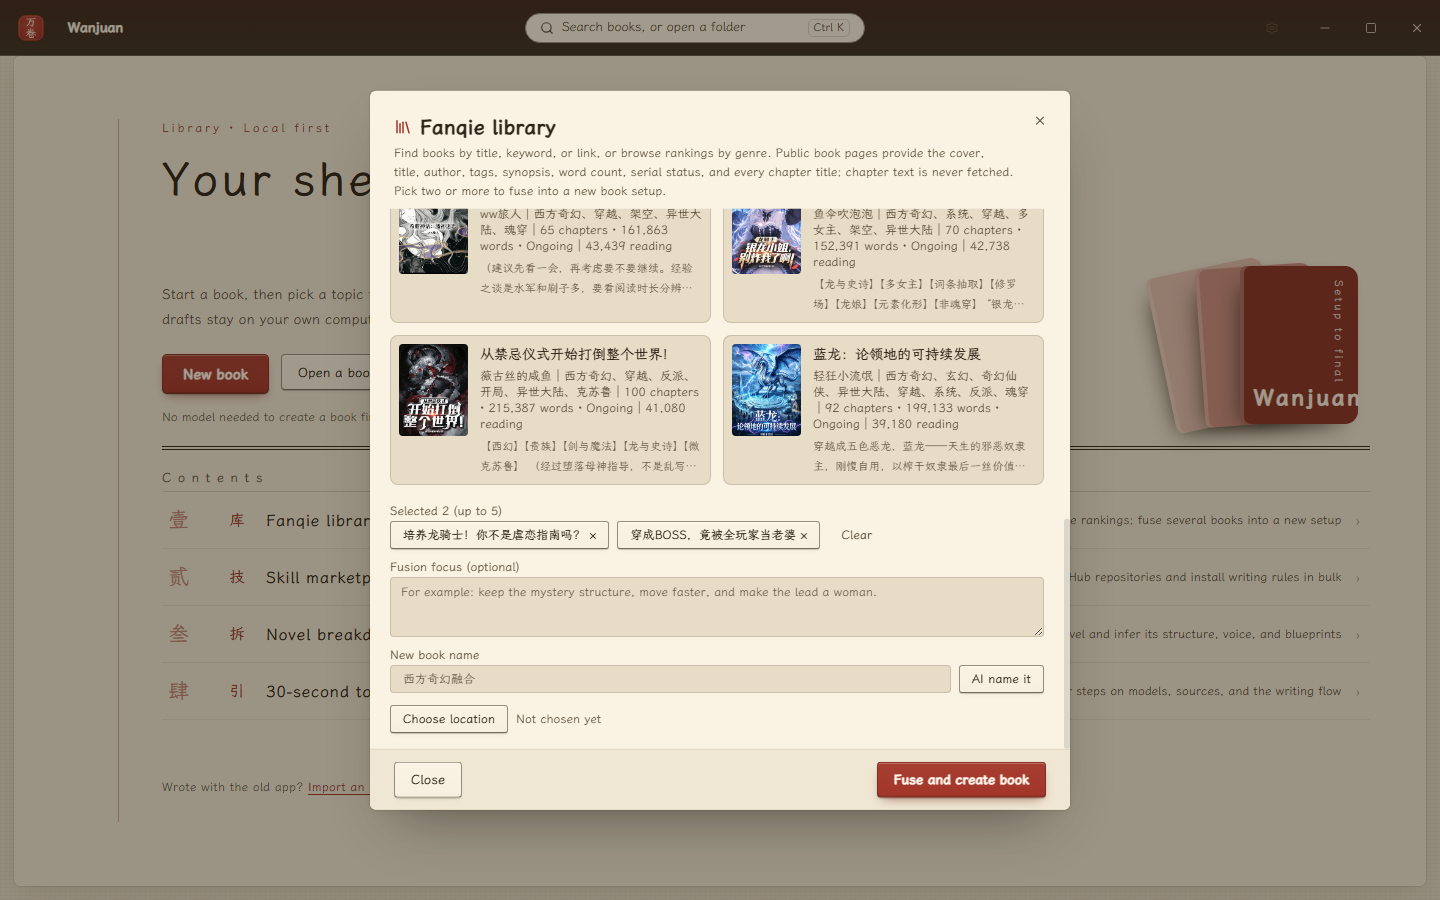
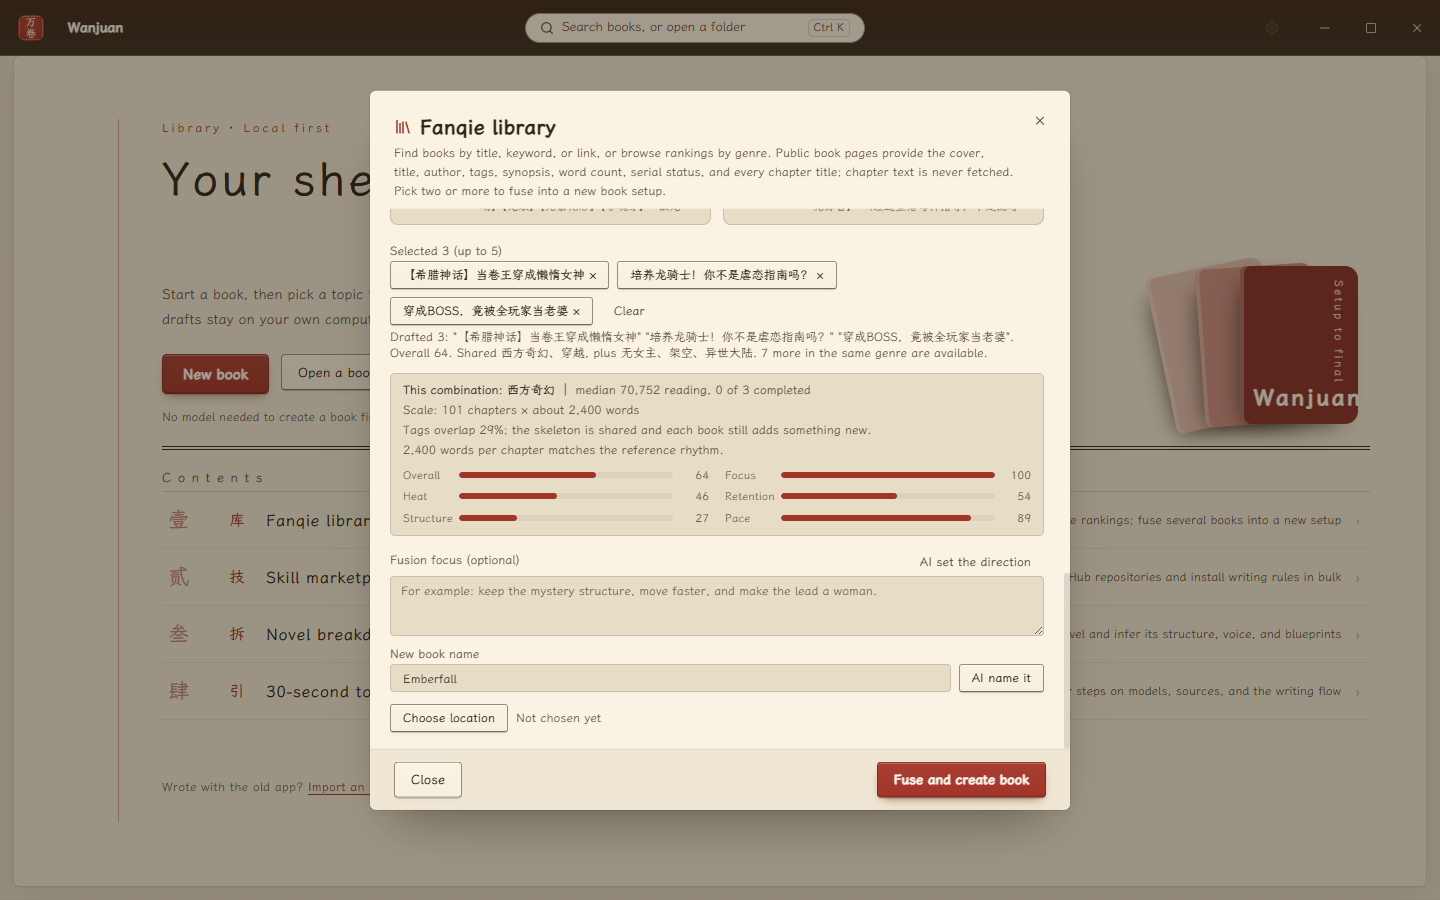
README 换上新截图：卡片综合分、配单六项评分、本机执行器设置页
- 三份 README 的番茄书库配图重拍：榜单页显示每张卡片的综合分与「帮我配一单/AI 帮我选」，配单页显示已选作品、诊断与六项评分
- 新增本机执行器设置页截图，放在「用订阅自带的 CLI 当执行器」一节
- 评分口径写成表：热度对数刻度、追读用 IMDb 加权评分收缩、节奏用高斯核、题材集中用成对 Jaccard，并标明单本与整单权重
- 服务商表补上「本机执行器（CLI）」一行；llms.txt 补上评分与 harness 的事实
- 截图清单补上新增文件与重拍方法

diff --git a/README_en.md b/README_en.md
@@ -64,11 +64,11 @@ A route you can actually start on:
 Whether you make money depends on the work itself and on platform rules. Wanjuan raises output and the odds of picking a topic that lands; it promises no income. Policies on AI-generated content differ by platform, so check the author agreement of your target platform before publishing.
 
 <p align="center">
-  <img src="docs/assets/readme/retro-en/fanqie-rank.png" alt="Fanqie library: 37 genre rankings across male-lead and female-lead fiction, with covers, word counts, and serial status" width="100%" />
+  <img src="docs/assets/readme/retro-en/fanqie-rank.png" alt="Fanqie rankings: every card carries its own overall score in the corner, with Suggest a bundle and AI picks above" width="100%" />
 </p>
 
 <p align="center">
-  <img src="docs/assets/readme/retro-en/fanqie-fusion.png" alt="After ticking two books, the selected titles are listed on the left and the fusion direction and new book name are filled in on the right" width="100%" />
+  <img src="docs/assets/readme/retro-en/fanqie-fusion.png" alt="A drafted set: three books ticked, six scores for the set (overall 64, focus 100, heat 46, retention 54, structure 27, pace 89), then the fusion direction and new book name" width="100%" />
 </p>
 
 ## The library: every book in one place
@@ -100,6 +100,18 @@ Wanjuan works in the order a novel gets written: you are the author, it is your 
 Find books on Fanqie by title, keyword, or book link, or browse rankings by genre: 19 male-lead and 18 female-lead categories, each listing that category's ranked books with covers, synopses, word counts, and serial status. It reads public book pages only: cover, title, author, tags, synopsis, word count, serial status, and every chapter title. Chapter text is never fetched.
 
 Rather not pick one by one? Choose "Suggest a bundle": the app drafts three books from the current results by genre skeleton, chapter pace, and readership, and explains the shared genre plus what each book adds. Once you tick two to five books, a diagnosis panel shows the genre, the scale to plan for (chapters x words per chapter), how much the tags overlap, and whether the pace runs faster or slower than the platform norm. It also scores the set from 0 to 100: an overall figure plus genre focus, heat, retention, structure, and pace. Every candidate card carries its own overall score in the corner, so you can compare before ticking. You can also choose "AI picks": the candidate tags, readership, scale, status, and scores go to the model, which decides which two or three books to fuse, why, and in what direction. When it cannot pick, you get an explicit error instead of a made-up set. Write the direction yourself, or choose "AI set the direction" to get two directions from the model and click one to fill it in; titles work the same way through "AI title". Pick a folder, confirm the name, then choose "Fuse and create book": the app creates the book, writes the total chapter count and words per chapter from the median of the references, and asks AI to generate the setup, architecture, and core outline. References supply genre and structure only; the fused result never reuses their characters, place names, or specific plot.
+
+The scores are not ad-hoc weights; each one has a reason:
+
+| Score | Book weight | Set weight | How it is computed | Why |
+| --- | --- | --- | --- | --- |
+| Heat | 30% | 22% | `log10(readers)` mapped from 10³ to 10⁷ onto 0–100 | Readership is long-tailed, so only a log scale matches how it feels |
+| Retention | 20% | 16% | Per-chapter readers shrunk with `(v·R + m·C)/(v+m)`, then log-mapped to 0–100 | IMDb weighted rating: 1M readers over 10 chapters should not beat 1M over 1000 |
+| Structure | 25% | 20% | Completed 100; serial by chapter count 20–90; unknown 40 | Length and completion decide how much a book can actually lend |
+| Pace | 25% | 20% | `exp(−δ²/2σ²)`, δ the log distance of words-per-chapter from 3000, σ=0.5 | Gaussian kernel: deviating from the norm decays smoothly, not as a cliff |
+| Genre focus | — | 22% | Mean pairwise Jaccard of tags; below 0.15 drops to 45, above 0.6 drops to 55 | Set coherence: too scattered reads as no theme, too identical adds nothing |
+
+Heat, retention, structure, and pace for a set are the **median** of its books, so one weak pick does not sink the set. The shrinkage prior is 300 chapters at 300 readers each: the usual "pull small samples toward the platform mean" move, not a fitted optimum, but every number can be explained to you.
 
 Keyword search locates book IDs through Bing site search. When that service is unavailable, the app falls back to ranking entries whose titles match, and you can always paste a book link.
 
@@ -175,9 +187,10 @@ Settings include presets for these providers:
 | Google Gemini | Native Gemini | Preset address `https://generativelanguage.googleapis.com` |
 | Ollama (local) | OpenAI-compatible | The model runs on your own computer |
 | NovelAI | OpenAI-compatible | Minimal compatibility, not fully verified with a real account |
+| Local harness (CLI) | CLI | Calls the `codex`, `gemini`, or `claude` you already signed in to, with no API key |
 | Custom | OpenAI-compatible | Any compatible service address |
 
-"Custom" only changes the address, model name, and credentials within the two protocols above. It is not an arbitrary HTTP interface. Anthropic, Azure, native KoboldAI, and similar interfaces need dedicated adapters, and a URL swap does not make them work.
+"Custom" only changes the address, model name, and credentials within the OpenAI-compatible or native Gemini protocols. It is not an arbitrary HTTP interface. Anthropic, Azure, native KoboldAI, and similar interfaces need dedicated adapters, and a URL swap does not make them work.
 
 Semantic search in the knowledge base needs a separate embedding model, configured under "Retrieval model" in settings.
 
@@ -193,6 +206,10 @@ Arguments: exec {{prompt}}
 ```
 
 Put `{{prompt}}` where the prompt should go in the arguments; leave it out and the prompt is written to standard input. A harness has no system role, so messages are joined in order. It reports no token usage, so generation accounting misses that part; it suits small tasks such as topic picking, titles, and directions.
+
+<p align="center">
+  <img src="docs/assets/readme/retro-en/settings-harness.png" alt="The harness settings page: provider Local harness (CLI) with the Codex preset filling in command codex and arguments exec {{prompt}}" width="100%" />
+</p>
 
 ### Run a local model with Ollama
 

diff --git a/README.md b/README.md
@@ -64,11 +64,11 @@
 能不能赚到钱取决于作品本身和平台规则。万卷提高的是产能与选题命中率，不对收益作任何承诺。AI 生成内容在各平台的政策不同，发布前请按目标平台的作者协议自行确认。
 
 <p align="center">
-  <img src="docs/assets/readme/retro/fanqie-rank.png" alt="番茄书库：男频女频共 37 个题材榜单，带封面、字数与连载状态" width="100%" />
+  <img src="docs/assets/readme/retro/fanqie-rank.png" alt="番茄书库的分类榜单：每张卡片右上角标着这本书的综合分，上方有「帮我配一单」与「AI 帮我选」" width="100%" />
 </p>
 
 <p align="center">
-  <img src="docs/assets/readme/retro/fanqie-fusion.png" alt="勾选两本书后，左侧列出已选作品，右侧填融合取向与新作品名称" width="100%" />
+  <img src="docs/assets/readme/retro/fanqie-fusion.png" alt="配单结果：已选三本，整单六项评分（综合 64、题材集中 100、热度 46、追读 54、结构 27、节奏 89），下面填融合取向与新作品名称" width="100%" />
 </p>
 
 ## 书房：管理你的全部作品
@@ -100,6 +100,18 @@
 按书名、关键词或书籍链接找番茄上的作品；也可以按男频女频的题材翻榜单，男频 19 个、女频 18 个分类，每个分类列出该题材榜单上的作品，带封面、简介、字数与连载状态。读的是公开的书籍详情页：封面、书名、作者、标签、简介、字数、状态与全部章节标题，章节正文不读取。
 
 不想一本本挑，就点「帮我配一单」：软件按题材骨架、章节节奏和在读数，从当前结果里配三本，并说明它们的共同题材和各自带来的新卖点。勾选两到五本后，下面会给出这套组合的诊断——算哪个题材、要写多大（章数 × 每章字数）、标签重合多少、节奏比平台主流快还是慢，并给出一套 0 到 100 的评分：综合与题材集中、热度、追读、结构、节奏五项。每张候选卡片的右上角也直接标着这本书的综合分，挑之前就能横向比。也可以点「AI 帮我选」：把候选的标签、在读、规模、状态与评分交给模型，由它判断挑哪两三本、为什么这么挑、往哪个方向写；挑不出来就明确报错，不替你凑数。融合取向可以自己写，也可以点「AI 定方向」让模型出两条方向，点一条就填进去；书名同理，点「AI 起名」。选好保存位置、确认名称后点「融合并新建作品」：软件新建作品、按参考作品的中位规模写好总章数与每章字数，再让 AI 生成设定、架构与核心大纲。参考作品只提供题材与结构依据，融合结果不复刻其中的人物、地名与具体情节。
+
+分数不是拍脑袋凑的权重，每一项都有对应做法：
+
+| 分项 | 单本权重 | 整单权重 | 怎么算 | 依据 |
+| --- | --- | --- | --- | --- |
+| 热度 | 30% | 22% | `log10(在读人数)` 从 10³ 到 10⁷ 映入 0–100 | 网文在读是长尾分布，对数刻度才接近读者的体感 |
+| 追读 | 20% | 16% | 每章在读先按 `(v·R + m·C)/(v+m)` 收缩，再取对数映入 0–100 | IMDb 加权评分：10 章 100 万在读不该吊打 1000 章 100 万 |
+| 结构 | 25% | 20% | 完结 100；连载按章数给 20–90；数据缺失记 40 | 连载长度与完结状态决定这本书能参考多少 |
+| 节奏 | 25% | 20% | `exp(−δ²/2σ²)`，δ 是每章字数相对 3000 字的对数距离，σ=0.5 | 高斯核相似度：偏离主流是平滑衰减，不是一刀切 |
+| 题材集中 | — | 22% | 标签两两 Jaccard 的均值；低于 0.15 压到 45 分，高于 0.6 压到 55 分 | 集合内聚度：太散配不成一本，太像没有新意 |
+
+整单的热度、追读、结构、节奏取各书的**中位数**，一两本拖后腿不会毁掉整单。收缩先验取 300 章、每章 300 人在读——这是「样本少就往平台均值拉」的常见做法，不是拟合出来的最优参数，胜在每一项都能解释给你听。
 
 关键词检索用 Bing 的站内检索定位书号；检索服务不可用时自动退回榜单里书名匹配的作品，也可以直接粘贴书籍链接。
 
@@ -175,9 +187,10 @@
 | Google Gemini | Gemini 原生 | 预设地址 `https://generativelanguage.googleapis.com` |
 | Ollama（本地） | OpenAI 兼容 | 模型跑在你自己的电脑上 |
 | NovelAI | OpenAI 兼容 | 最小兼容支持，未用真实账号完整验证 |
+| 本机执行器（CLI） | CLI | 调用你已经登录的 `codex`、`gemini`、`claude`，不需要 API Key |
 | 自定义 | OpenAI 兼容 | 填任意兼容服务的地址 |
 
-「自定义」只是在上面两种协议里换地址、模型名和凭据，不是任意 HTTP 接口。Anthropic、Azure、KoboldAI 原生接口等需要单独的适配器，换个 URL 不能保证能用。
+「自定义」只是在 OpenAI 兼容或 Gemini 原生协议里换地址、模型名和凭据，不是任意 HTTP 接口。Anthropic、Azure、KoboldAI 原生接口等需要单独的适配器，换个 URL 不能保证能用。
 
 知识库的语义检索另需一个向量模型，在设置的「检索模型」里配置。
 
@@ -191,6 +204,10 @@
 命令：    codex
 参数：    exec {{prompt}}
 ```
+
+<p align="center">
+  <img src="docs/assets/readme/retro/settings-harness.png" alt="设置页的本机执行器：服务商选「本机执行器（CLI）」，执行器选 Codex 预设后自动填好命令 codex 与参数 exec {{prompt}}" width="100%" />
+</p>
 
 参数里写 `{{prompt}}` 表示把提示词放在那个位置；不写就让提示词从标准输入送进去。执行器没有 system 角色，提示词按消息顺序拼成一段。它不返回 token 用量，所以正文生成的用量统计会缺这一段，适合选题、起名、定方向这类小任务。
 
